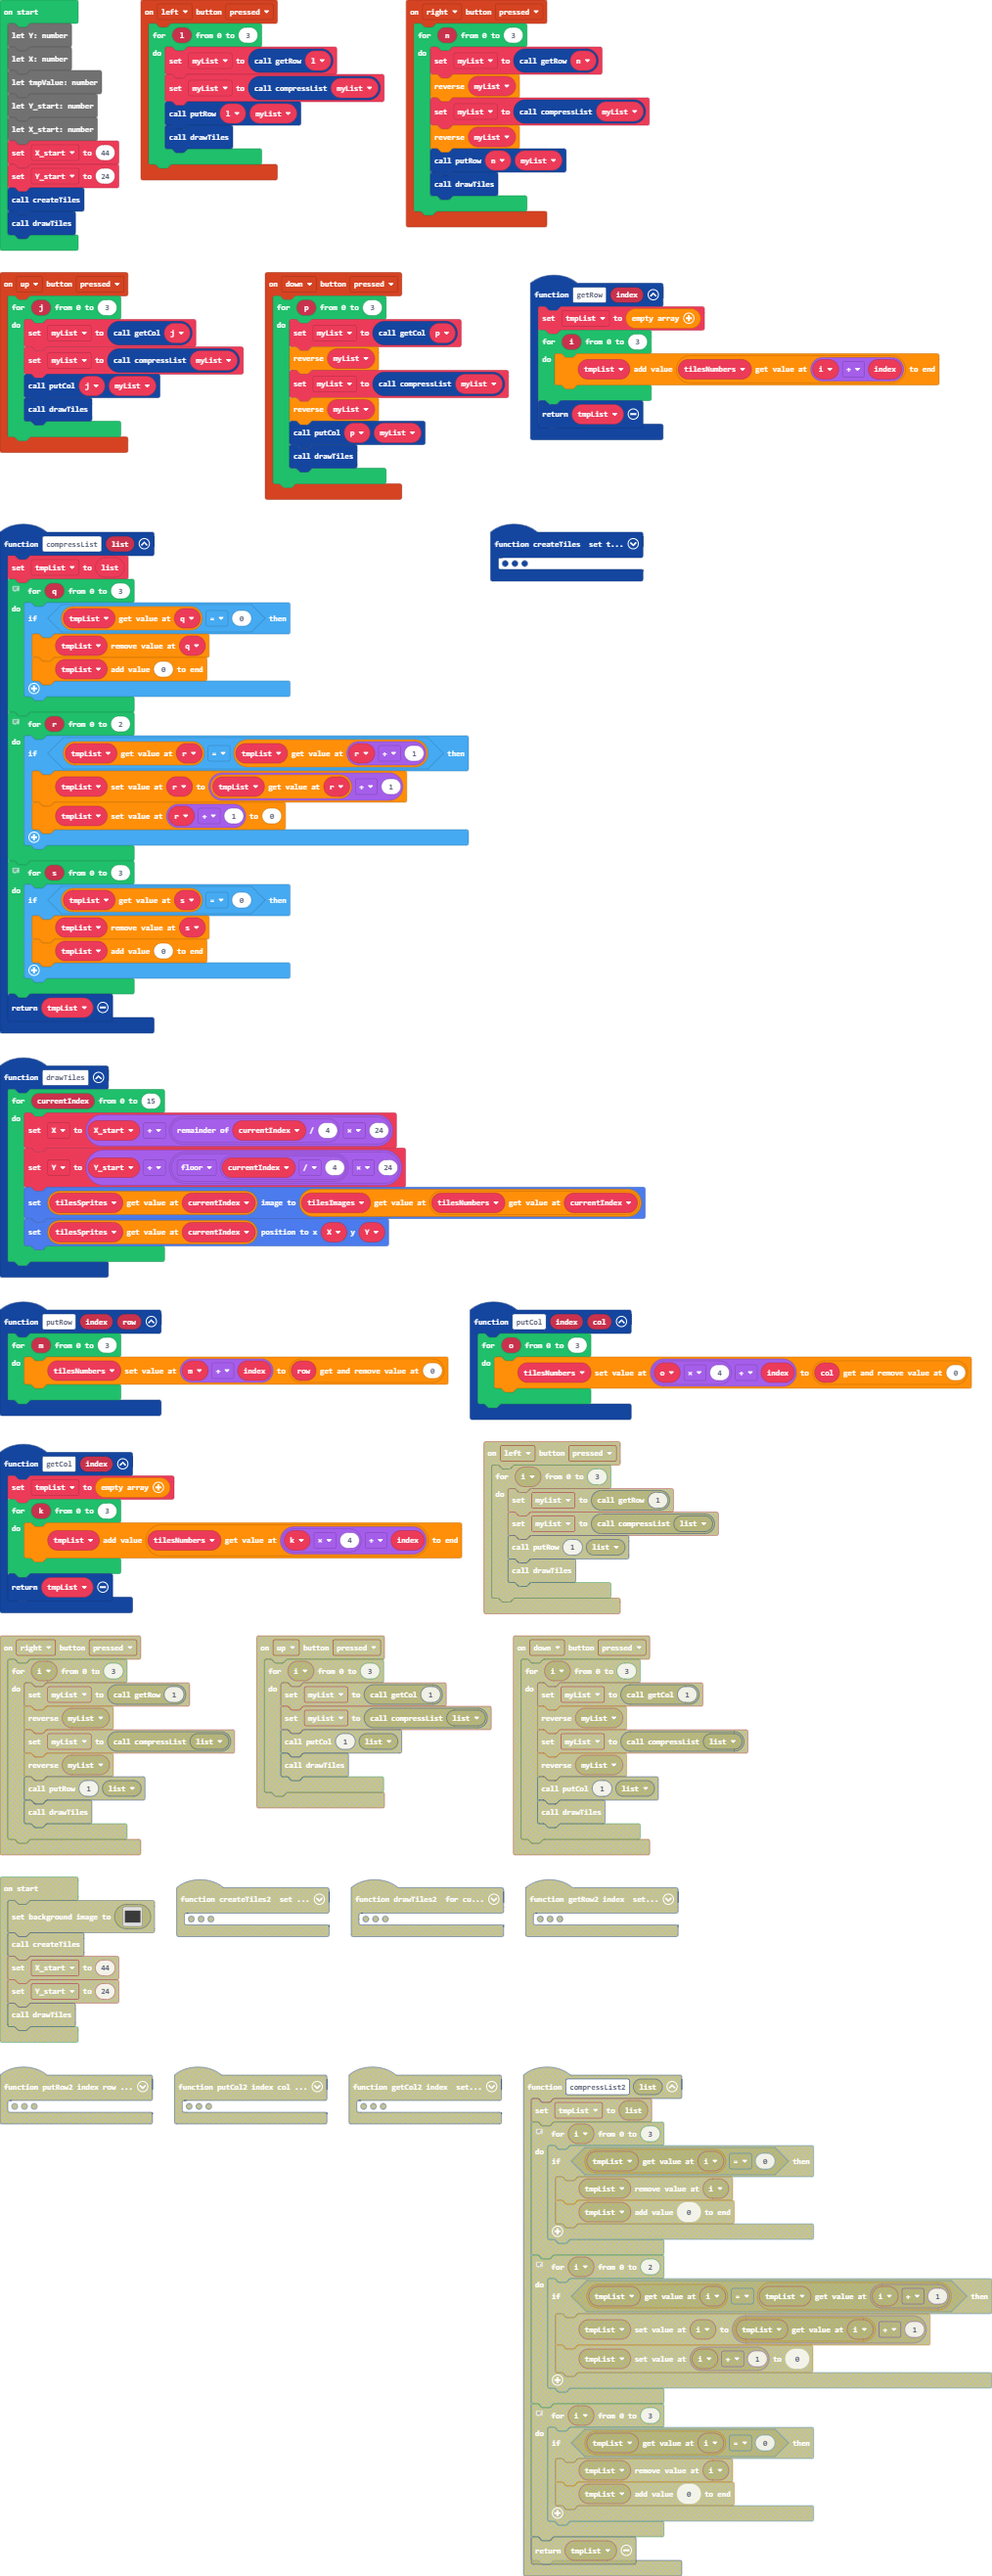
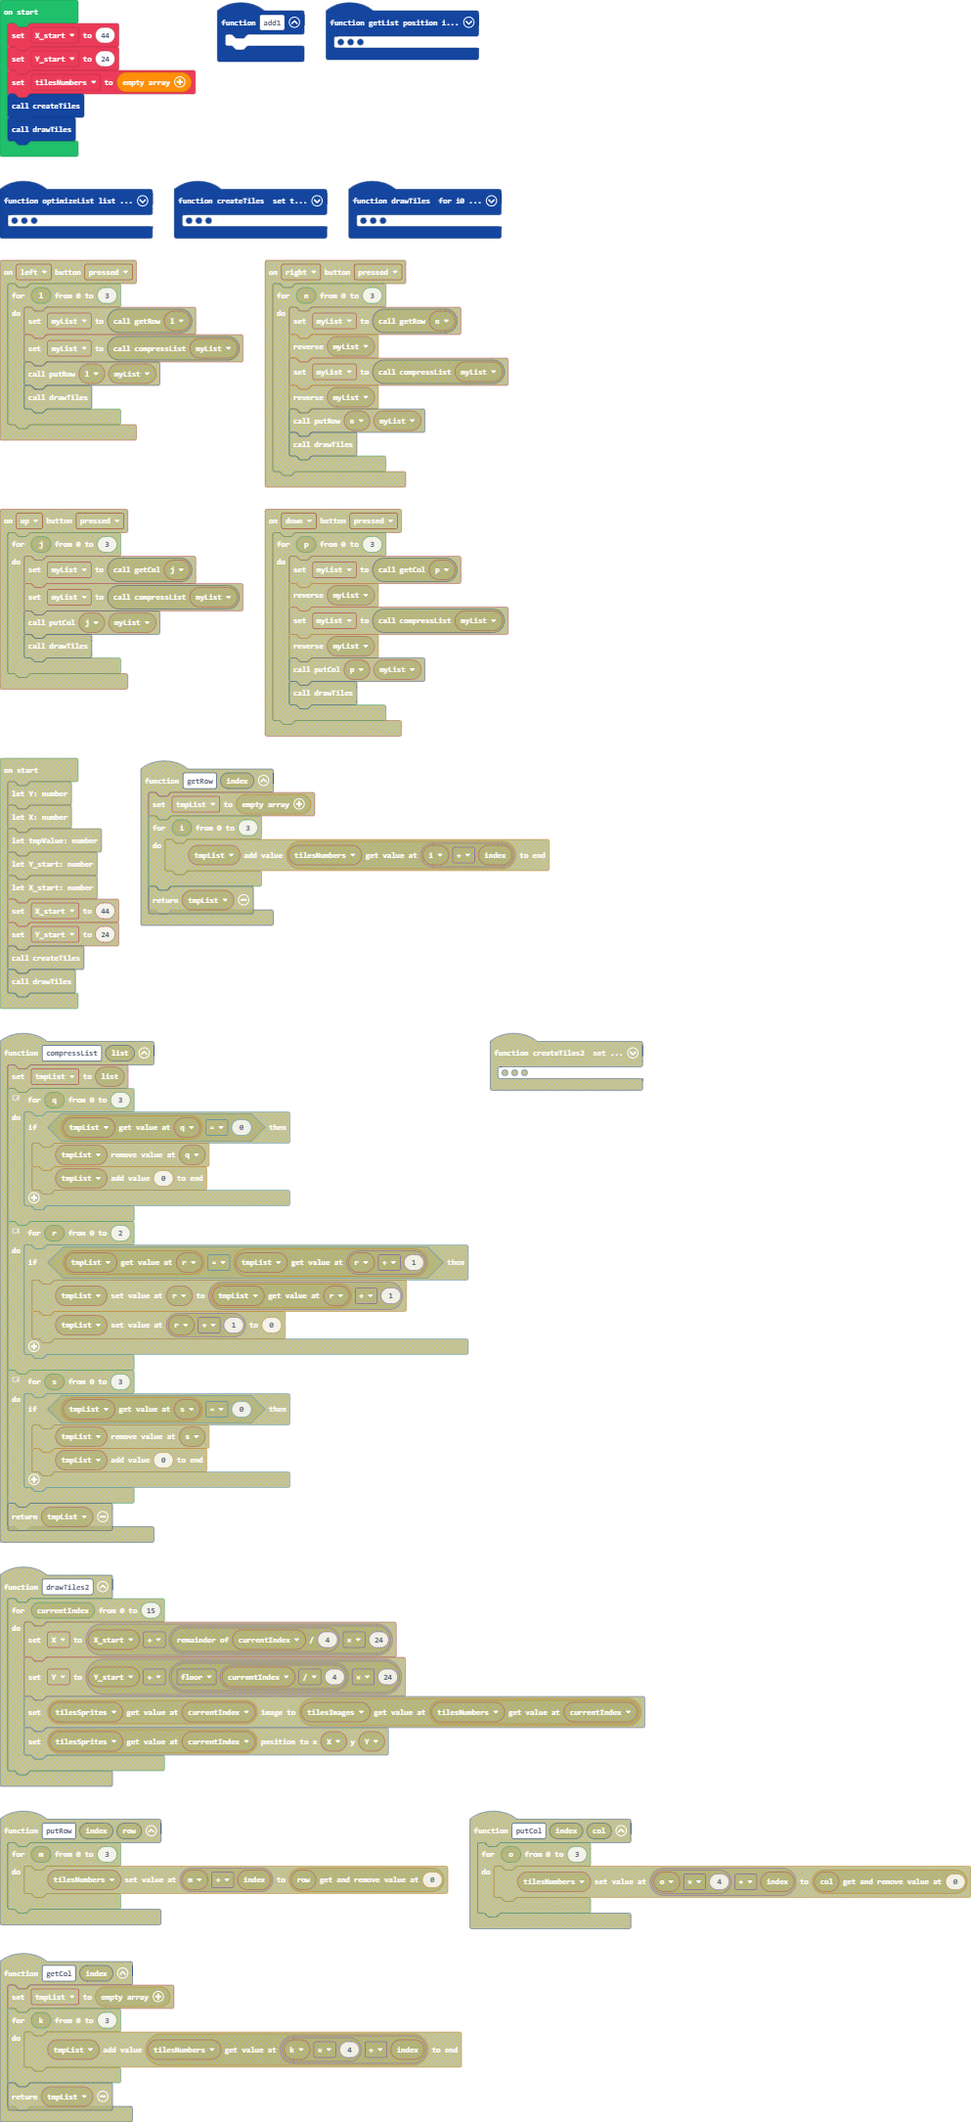
working algo!!!

diff --git a/main.ts b/main.ts
@@ -1,66 +1,37 @@
 namespace SpriteKind {
     export const Tile = SpriteKind.create()
 }
-function getRow (index: number) {
-    tmpList = []
-    for (let i = 0; i <= 3; i++) {
-        tmpList.push(tilesNumbers[i + index])
-    }
-    return tmpList
+function add1 () {
+	
 }
-controller.up.onEvent(ControllerButtonEvent.Pressed, function () {
-    for (let j = 0; j <= 3; j++) {
-        myList = getCol(j)
-        myList = compressList(myList)
-        putCol(j, myList)
-        drawTiles()
+function optimizeList (list: number[]) {
+    newList = list
+    i0 = 0
+    i1 = 1
+    for (let index = 0; index < 3; index++) {
+        if (newList[i0] != 0) {
+            if (newList[i1] != 0) {
+                if (newList[i0] == newList[i1]) {
+                    newList[i0] = newList[i0] + 1
+                    newList.removeAt(i1)
+                    newList.push(0)
+                }
+                i0 += 1
+                i1 += 1
+            } else {
+                newList.removeAt(i1)
+                newList.push(0)
+            }
+        } else {
+            newList.removeAt(i0)
+            newList.push(0)
+        }
+        console.logValue("i0", i0)
+        console.logValue("i1", i1)
+        console.logValue("list", newList)
     }
-})
-function getCol (index: number) {
-    tmpList = []
-    for (let k = 0; k <= 3; k++) {
-        tmpList.push(tilesNumbers[k * 4 + index])
-    }
-    return tmpList
+    return newList
 }
-controller.left.onEvent(ControllerButtonEvent.Pressed, function () {
-    for (let l = 0; l <= 3; l++) {
-        myList = getRow(l)
-        myList = compressList(myList)
-        putRow(l, myList)
-        drawTiles()
-    }
-})
-function putRow (index: number, row: number[]) {
-    for (let m = 0; m <= 3; m++) {
-        tilesNumbers[m + index] = row.removeAt(0)
-    }
-}
-controller.right.onEvent(ControllerButtonEvent.Pressed, function () {
-    for (let n = 0; n <= 3; n++) {
-        myList = getRow(n)
-        myList.reverse()
-        myList = compressList(myList)
-        myList.reverse()
-        putRow(n, myList)
-        drawTiles()
-    }
-})
-function putCol (index: number, col: number[]) {
-    for (let o = 0; o <= 3; o++) {
-        tilesNumbers[o * 4 + index] = col.removeAt(0)
-    }
-}
-controller.down.onEvent(ControllerButtonEvent.Pressed, function () {
-    for (let p = 0; p <= 3; p++) {
-        myList = getCol(p)
-        myList.reverse()
-        myList = compressList(myList)
-        myList.reverse()
-        putCol(p, myList)
-        drawTiles()
-    }
-})
 function createTiles () {
     tilesImages = [
     assets.image`tile0`,
@@ -76,57 +47,47 @@ function createTiles () {
     assets.image`tile10`,
     assets.image`tile11`
     ]
-    tilesNumbers = []
     for (let index = 0; index < 16; index++) {
-        tmpValue = 0
-        tilesNumbers.push(tmpValue)
-        tilesSprites.push(sprites.create(tilesImages[tmpValue], SpriteKind.Tile))
+        tilesNumbers.push(0)
+        tilesSprites.push(sprites.create(tilesImages[0], SpriteKind.Tile))
     }
-}
-function compressList (list: number[]) {
-    tmpList = list
-    // clean out 0's between numbers
-    for (let q = 0; q <= 3; q++) {
-        if (tmpList[q] == 0) {
-            tmpList.removeAt(q)
-            tmpList.push(0)
-        }
-    }
-    // compress values if needed
-    for (let r = 0; r <= 2; r++) {
-        if (tmpList[r] == tmpList[r + 1]) {
-            tmpList[r] = tmpList[r] + 1
-            tmpList[r + 1] = 0
-        }
-    }
-    // clean up 0's again
-    for (let s = 0; s <= 3; s++) {
-        if (tmpList[s] == 0) {
-            tmpList.removeAt(s)
-            tmpList.push(0)
-        }
-    }
-    return tmpList
 }
 function drawTiles () {
-    for (let currentIndex = 0; currentIndex <= 15; currentIndex++) {
-        X = X_start + currentIndex % 4 * 24
-        Y = Y_start + Math.floor(currentIndex / 4) * 24
-        tilesSprites[currentIndex].setImage(tilesImages[tilesNumbers[currentIndex]])
-        tilesSprites[currentIndex].setPosition(X, Y)
+    for (let i0 = 0; i0 <= 15; i0++) {
+        X = X_start + i0 % 4 * 24
+        Y = Y_start + Math.floor(i0 / 4) * 24
+        tilesSprites[i0].setImage(tilesImages[tilesNumbers[i0]])
+        tilesSprites[i0].setPosition(X, Y)
     }
 }
+function getList (position: number, isRow: boolean) {
+    newList = [
+    0,
+    0,
+    0,
+    0
+    ]
+    for (let i1 = 0; i1 <= 3; i1++) {
+        if (isRow) {
+            newList[i1] = tilesNumbers[position * 4 + i1]
+        } else {
+            newList[i1] = tilesNumbers[i1 * 4 + position]
+        }
+    }
+    return newList
+}
+let Y = 0
+let X = 0
 let tilesSprites: Sprite[] = []
 let tilesImages: Image[] = []
-let myList: number[] = []
+let i1 = 0
+let i0 = 0
+let newList: number[] = []
 let tilesNumbers: number[] = []
-let tmpList: number[] = []
-let Y: number
-let X: number
-let tmpValue: number
-let Y_start: number
-let X_start: number
+let Y_start = 0
+let X_start = 0
 X_start = 44
 Y_start = 24
+tilesNumbers = []
 createTiles()
 drawTiles()
